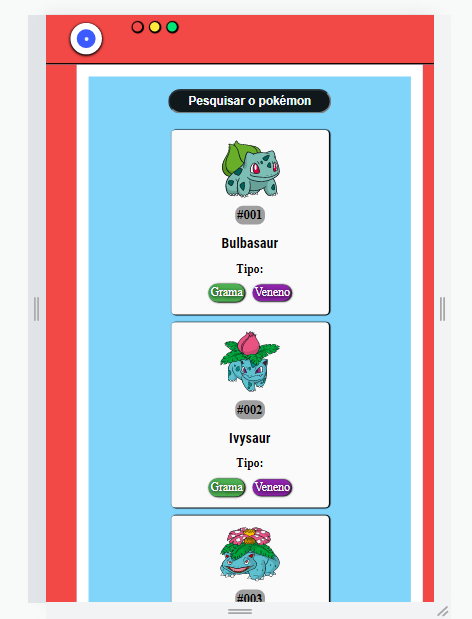
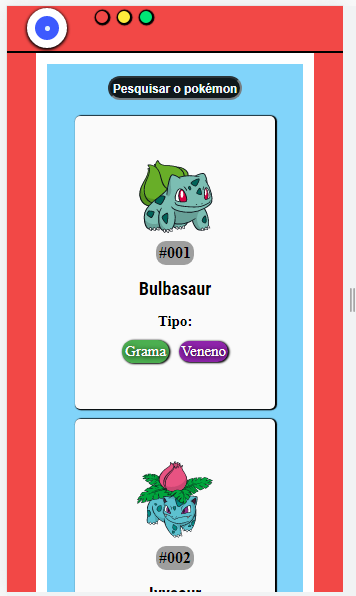
atualização responsive

diff --git a/README.MD b/README.MD
@@ -1,8 +1,9 @@
-# Projeto de uma pokedex com base de html e css <br> <hr>
+# Projeto de pokedex com base HTML e CSS <br> <hr>
 ## Interface para desktop
 <img src="/assets/readme/index_pc.png">
 <img src="/assets/readme/all_pc.png">
 <br> <hr>
+
 ## Interface para mobile
 <img src="/assets/readme/index_cell.png">
 <img src="/assets/readme/all_cell.png">
